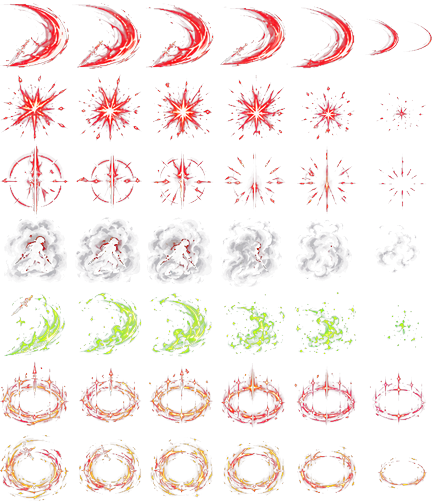
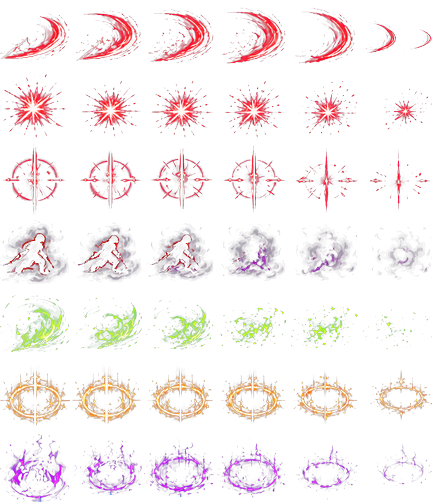
Кира: новый лист атаки и эффектов
Из двух присланных вариантов взят второй: у атаки чёткие выпады во все
стороны и нет слипшихся кадров. Эффекты: метка-прицел, дым с теневым
рывком, ядовитый взмах, золотое кольцо ауры и фиолетовое кольцо при выходе
из дыма. Ряды, слипшиеся на листе, разделены по самым пустым строкам.

Claude-Session: https://claude.ai/code/session_01AmWdLgRH5KkZouVun3YtrH

diff --git a/public/js/skins.js b/public/js/skins.js
@@ -65,7 +65,7 @@ window.Skins = (() => {
       sheet: 'assets/heroes/kira_sheet.png', portrait: 'assets/heroes/kira_portrait.png', w: 36, h: 48, frames: 5,
       // Атака: 7 рядов — 5 направлений и два доп. ряда; позы умения нет — для умений ряд «вниз»
       attack: { sheet: 'assets/heroes/kira_attack.png', w: 72, h: 60, frames: 5, rows: 7, cast: 0 },
-      // vanish — золотое кольцо (выход из дыма)
+      // aura — золотое кольцо, vanish — фиолетовое (выход из дыма)
       fx: { sheet: 'assets/heroes/kira_fx.png', size: 72, frames: 6, rows: ['slash', 'hit', 'exposeStrike', 'smokeScreen', 'poisonBlade', 'aura', 'vanish'] },
     },
     morvenKnight: { sheet: 'assets/heroes/morvenKnight_sheet.png', portrait: 'assets/heroes/morvenKnight_portrait.png', w: 36, h: 48, frames: 5 },

diff --git a/public/js/herofx.js b/public/js/herofx.js
@@ -457,7 +457,7 @@ window.HeroFx = (() => {
       smokeScreen(sc, f, c) {
         heroAnim(sc, c, undefined, undefined, true);
         fxPlay(sc, 'kira', 'smokeScreen', f.x, f.y - 14, { scale: (f.r || 80) / 34, solid: true });
-        sc.time.delayedCall(300, () => fxPlay(sc, 'kira', 'vanish', f.x, f.y - 2, { scale: 1.1 }));
+        sc.time.delayedCall(300, () => fxPlay(sc, 'kira', 'vanish', f.x, f.y - 6, { scale: 1.2 }));
         return true;
       },
       poisonBlade(sc, f, c) {
